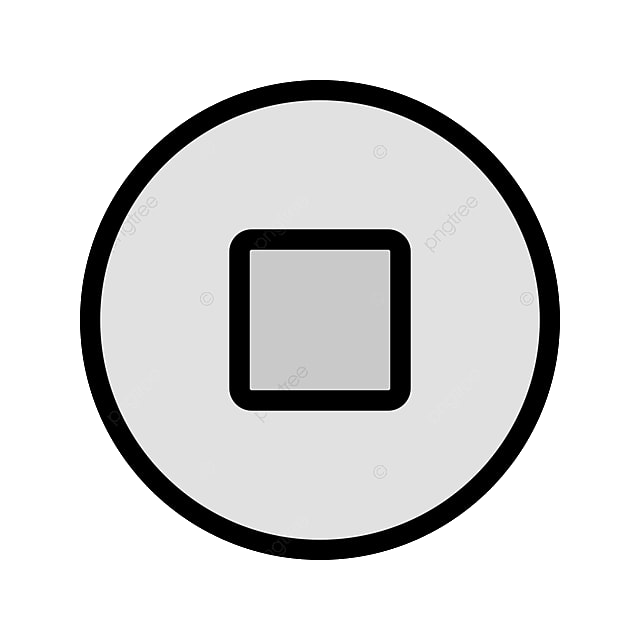
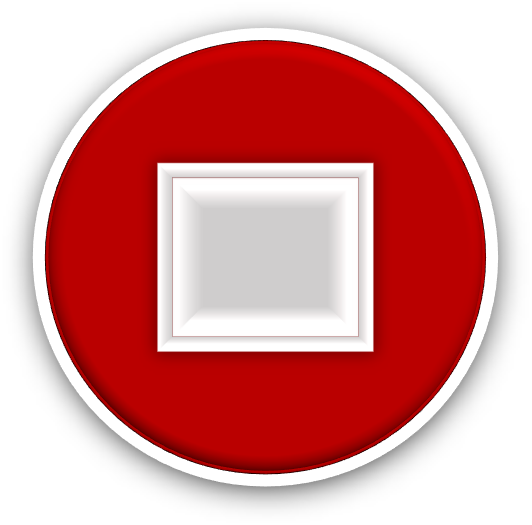
UI and assets update
Updated the logos
Updated the play and stop buttons

Changed the scaling of the rendered buttons
Changed main panel text header to Welcome to Jester's Tavern

diff --git a/src/com/jester/view/View.java b/src/com/jester/view/View.java
@@ -1,5 +1,5 @@
 /**
-    Authors     : Ron Relayo, Karl Halcon, and Cloyd Secuya
+    Authors     : Ron Relayo, Karl Halcon, Cloyd Secuya, and Nadrin Caluya
     Filename   : View.java
     Package	   : com.jester.view;
     Date of Creation : June 13, 2022
@@ -46,6 +46,12 @@ public class View {
     static DefaultTableModel model = new DefaultTableModel();
     static String title_play; 
     
+    /*Declaration of the panels that will be placed inside the card layout
+    and navigated through based on user interaction.*/
+    static CardLayout cl = new CardLayout();
+    static JPanel cardPanel = new JPanel();
+    static JPanel albumViewer = new JPanel();
+    
     private static void view() {
         //Creates and sets up the title of the frame.
         JFrame frame = new JFrame("Jester's Tavern");
@@ -53,11 +59,7 @@ public class View {
         //URL to get resource
         URL url = null;
         
-        /*Declaration of the panels that will be placed inside the card layout
-        and navigated through based on user interaction.*/
-        CardLayout cl = new CardLayout();
-        
-        JPanel cardPanel = new JPanel();
+        // Setting the layou with CardPanel manager
         cardPanel.setLayout(cl);
         
         JPanel headerPanel = new JPanel();
@@ -65,7 +67,6 @@ public class View {
         JPanel mainPanel = new JPanel();
         JPanel musicLibrary = new JPanel();
         JPanel lyricsViewer = new JPanel();
-        JPanel albumViewer = new JPanel();
         JPanel songAdder = new JPanel();
         
         cardPanel.add(mainPanel, "1");
@@ -217,7 +218,7 @@ public class View {
                     //Insert the code here to save the changes and add the music to
                     //your music library.
                     Thread.sleep(250);
-                    JOptionPane.showMessageDialog(null, "Changes Saved", "Confirmation", JOptionPane.PLAIN_MESSAGE);
+                    JOptionPane.showMessageDialog(null, "Restarting application to apply changes", "Changes Saved", JOptionPane.PLAIN_MESSAGE);
                 } catch (InterruptedException ex) {
                     Logger.getLogger(View.class.getName()).log(Level.SEVERE, null, ex);
                 }
@@ -251,6 +252,10 @@ public class View {
                 controller.SetNewMusic(music);
                 // Refresh the library for new contents
                 music_lib_refresher(music.getMusic_title(), music.getMusic_artist(), music.getMusic_album()); 
+                // Add the newly listed album to the album viewer
+                // Restart the main window and discard the old window to apply local changes
+                main(null);
+                frame.dispose();
             }
             
         });
@@ -278,7 +283,7 @@ public class View {
         
         /*Main panel default look. This will change based on which button
         is pressed in the sidebar*/
-        JLabel header = new JLabel("Main Panel");
+        JLabel header = new JLabel("Welcome to Jester's Tavern!");
         header.setFont(new Font("Arial", Font.BOLD, 28));
         header.setForeground(Color.WHITE);
         
@@ -297,7 +302,7 @@ public class View {
         url = View.class.getResource("assets/logo.png");
         ImageIcon logoImg = new ImageIcon(url);
         Image LG = logoImg.getImage();
-        Image LGscale = LG.getScaledInstance(100, 65, Image.SCALE_SMOOTH);
+        Image LGscale = LG.getScaledInstance(80, 45, Image.SCALE_SMOOTH);
         ImageIcon scaledLG = new ImageIcon(LGscale);
         logo.setIcon(scaledLG);
         logo.setBorder(EmptyBorder);
@@ -305,7 +310,7 @@ public class View {
         logo.addMouseListener(new MouseAdapter() {
             @Override
             public void mouseClicked(MouseEvent e) {
-                header.setText("Main Panel");
+                header.setText("Welcome to Jester's Tavern!");
                 cl.show(cardPanel, "1");
             }
         });
@@ -363,10 +368,10 @@ public class View {
         
         //This is the picture of the album.
         JLabel albumPic = new JLabel();
-        url = View.class.getResource("assets/logo.png");
+        url = View.class.getResource("assets/logo2.png");
         ImageIcon albumImg = new ImageIcon(url);
         Image AP = albumImg.getImage();
-        Image APscale = AP.getScaledInstance(100, 65, Image.SCALE_SMOOTH);
+        Image APscale = AP.getScaledInstance(50, 45, Image.SCALE_SMOOTH);
         ImageIcon scaledAP = new ImageIcon(APscale);
         albumPic.setIcon(scaledAP);
         albumPic.setBorder(EmptyBorder);
@@ -390,8 +395,8 @@ public class View {
         ImageIcon stopButton = new ImageIcon(url);
         Image PB = playButton.getImage();
         Image SB = stopButton.getImage();
-        Image PBscale = PB.getScaledInstance(65, 65, Image.SCALE_SMOOTH);
-        Image SBscale = SB.getScaledInstance(70, 70, Image.SCALE_SMOOTH);
+        Image PBscale = PB.getScaledInstance(60, 60, Image.SCALE_SMOOTH);
+        Image SBscale = SB.getScaledInstance(60, 60, Image.SCALE_SMOOTH);
         ImageIcon scaledSB = new ImageIcon(SBscale);
         ImageIcon scaledPB = new ImageIcon(PBscale);
         playButtonContainer.setIcon(scaledPB);
@@ -568,6 +573,7 @@ public class View {
             albumTitle[ctr].setBackground(Color.LIGHT_GRAY);
             albumSongHeader[ctr].setFont(new Font("Arial", Font.BOLD, 23));
             songContainer[ctr].add(albumSongHeader[ctr]);
+            
             /* Album Picture Insertion Here */
             // @TODO - Set different album icons 
             albumPhoto[ctr].setIcon(scaledAP);
@@ -585,10 +591,15 @@ public class View {
             for(int ctr2 = 0, ctr3 = 1; ctr2 < count1; ctr2++, ctr3++){
                 /*call album songs on str4 */
                 String str4 = "   " + ctr3 + ".)  " + music_ls[ctr2].getMusic_title();
-                albumSongs[ctr2] = new JLabel(str4);
-                albumSongs[ctr2].setBorder(BorderFactory.createLineBorder(Color.GRAY, 2));
-                albumSongs[ctr2].setFont(new Font("Arial", Font.BOLD, 16));
-                songContainer[ctr].add(albumSongs[ctr2]);
+                String alName = music_ls[ctr2].getMusic_album();
+                String alText = music_ls[ctr].getMusic_album();
+                
+                if (alName.equals(alText)) {
+                    albumSongs[ctr2] = new JLabel(str4);
+                    albumSongs[ctr2].setBorder(BorderFactory.createLineBorder(Color.GRAY, 2));
+                    albumSongs[ctr2].setFont(new Font("Arial", Font.BOLD, 16));
+                    songContainer[ctr].add(albumSongs[ctr2]);
+                }
             }
             albumPanels[ctr].add(albumHeader[ctr], BorderLayout.NORTH);
             albumPanels[ctr].add(songContainer[ctr], BorderLayout.CENTER);
